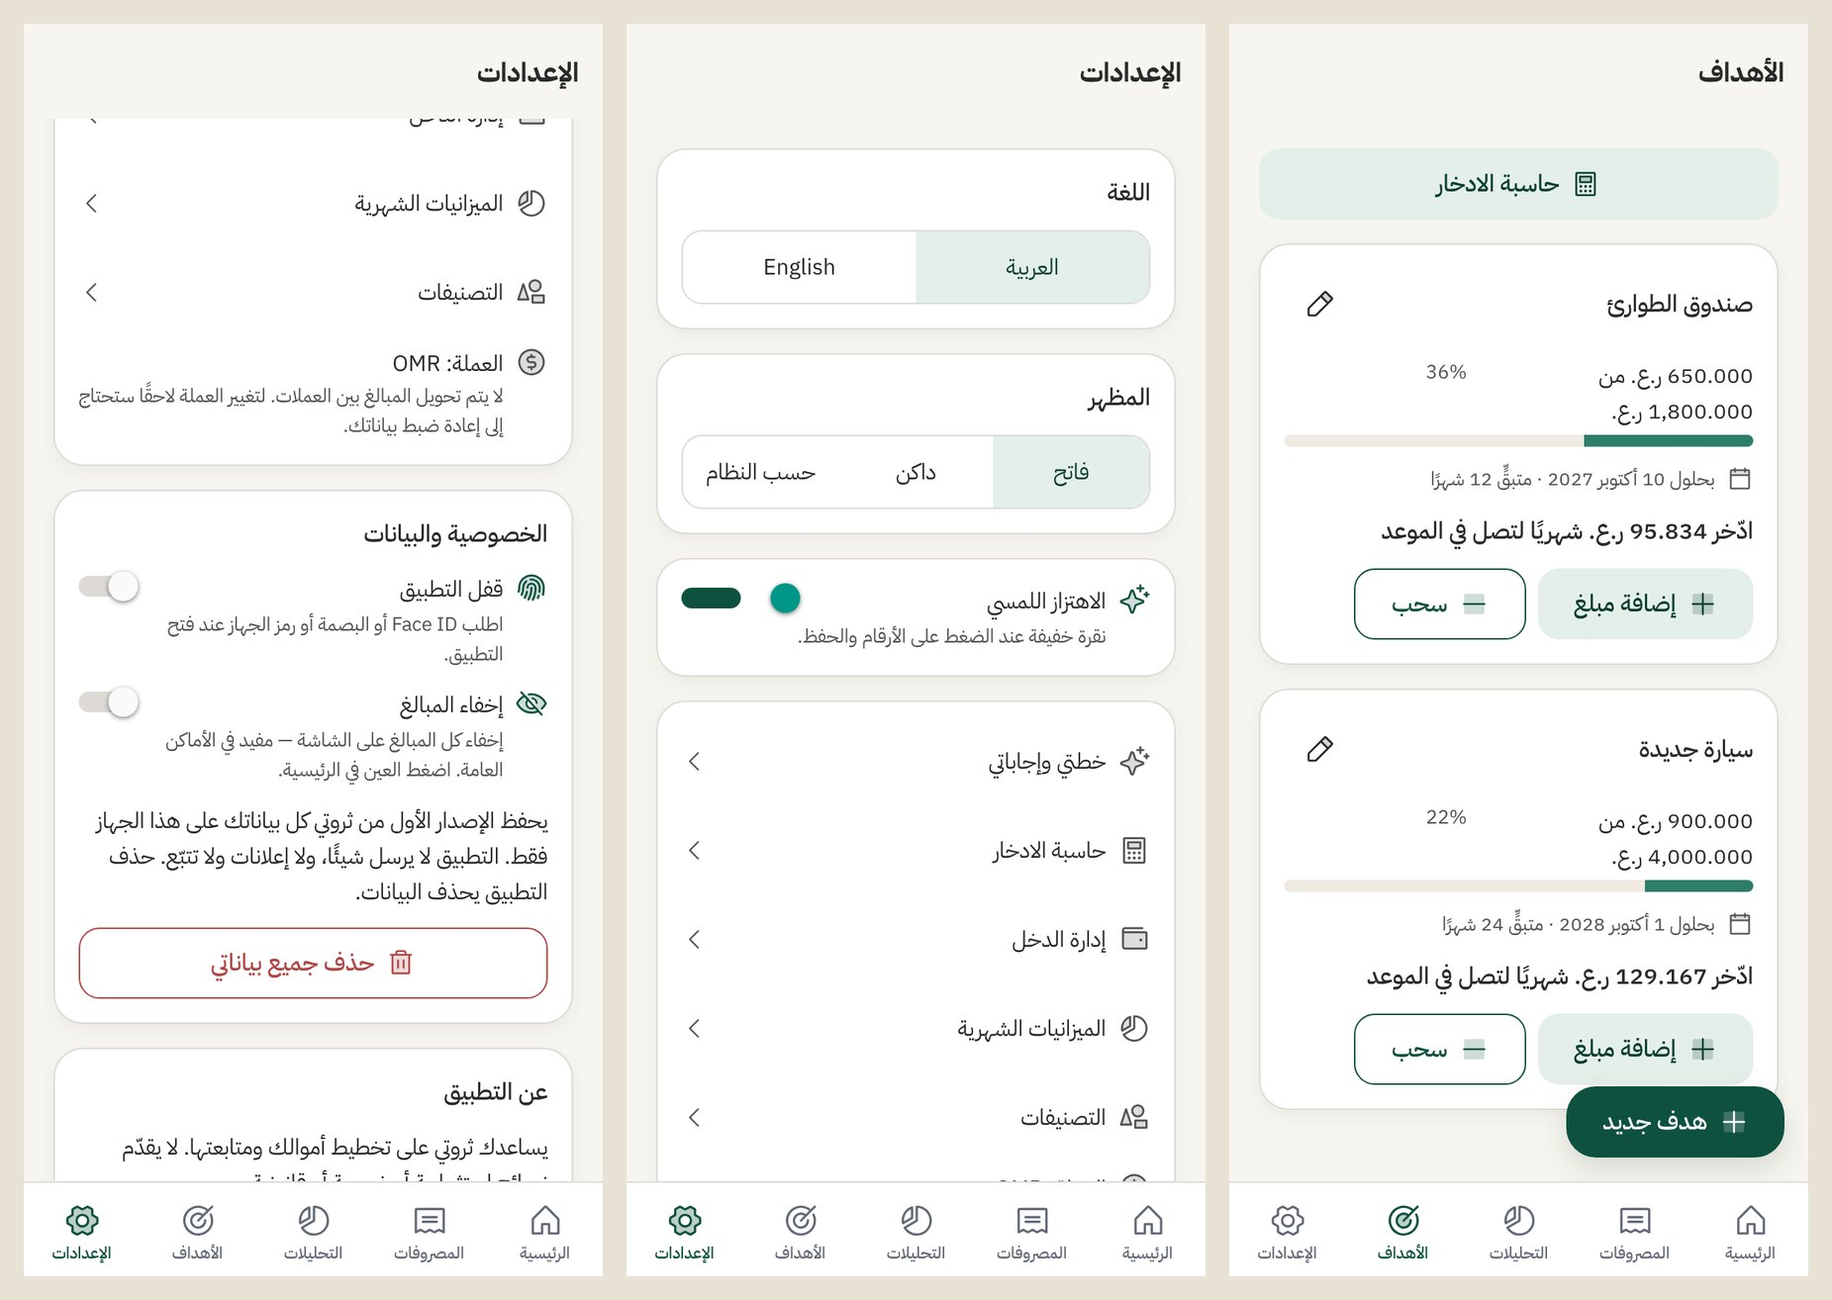
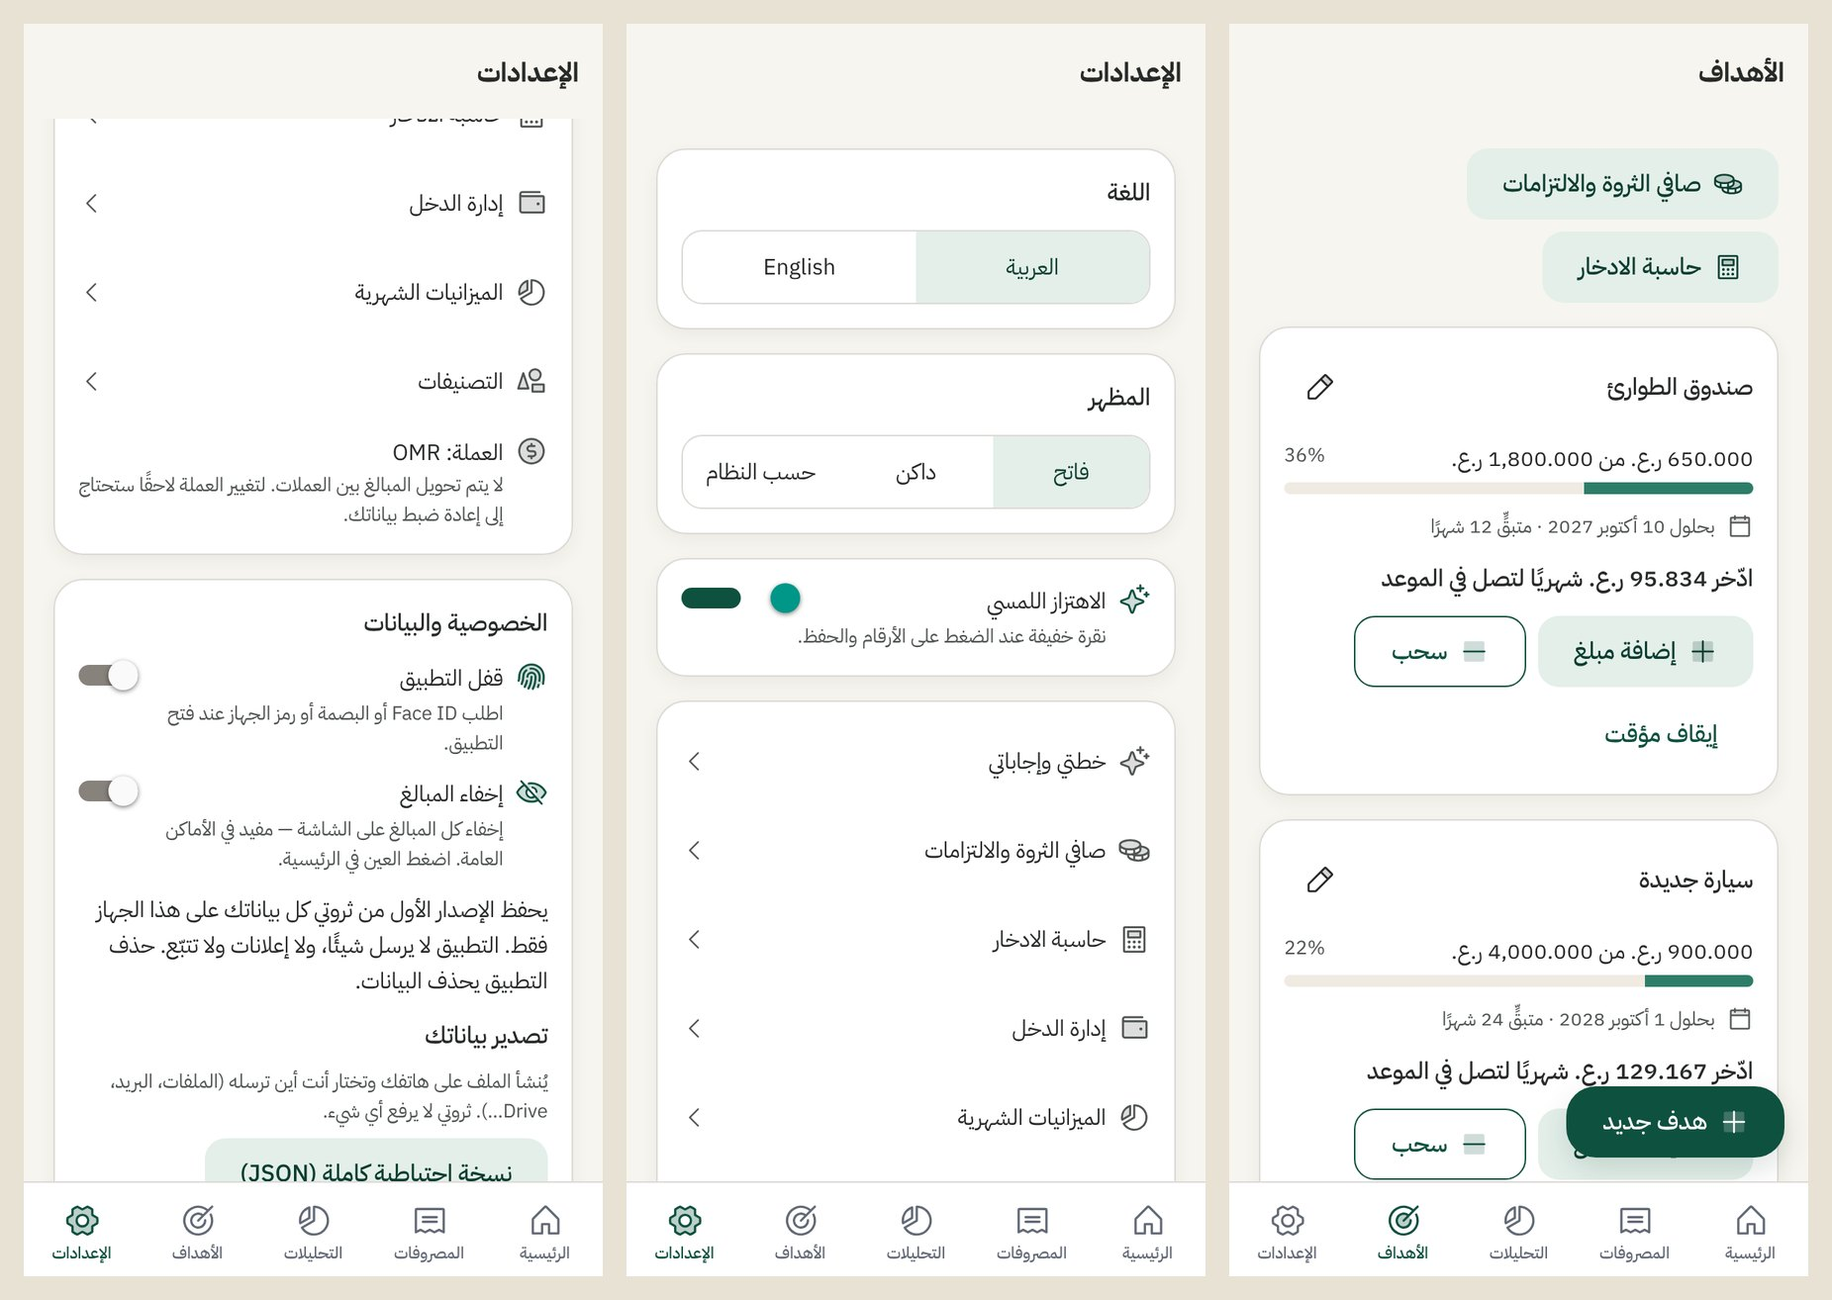
Design & colour polish across screens; iPhone build profile for Face ID
- Category colours regenerated as one brand family (OKLCH L .50 / C .12,
  30° hue steps, housing on the emerald hue; dark mode L .79): no more
  royal blue / purple / orange chart-library look. Text >= 4.76:1 and
  ΔE >= 0.051, enforced by tests.
- Percentages wrapped in LRM («57%», not «%57»), incl. debt rates.
- Progress rows: long values (budget "x of y", goal amounts) move to
  their own line instead of breaking amounts mid-way.
- Budget bars: golden amber near the limit, brand red over it
  (non-text, >= 3:1, tested) instead of muddy brown / text red.
- One branded Toggle replaces every Switch.
- eas.json: preview profile builds for real iPhones (ad-hoc); README
  section with device registration + build commands (requires a paid
  Apple Developer membership — owner decision, nothing enabled).
- Decision D-036; screenshots refreshed; 306 tests passing.

Claude-Session: https://claude.ai/code/session_01Riwkz4h1jZvr9WJWLAUoMn

diff --git a/expo-app/src/ui/theme.ts b/expo-app/src/ui/theme.ts
@@ -68,6 +68,9 @@ export interface Palette {
   brandGold: string;
   /** Progress bars and rings (non-text, >= 3:1). */
   progress: string;
+  /** Budget bar near its limit / over it (non-text, >= 3:1). */
+  cautionBar: string;
+  dangerBar: string;
 
   // Text
   onSurface: string;
@@ -128,6 +131,8 @@ export const light: Palette = {
   heroAccent: '#D6B35F', // brand gold, a hair lighter for 4.6:1 text on the hero
   brandGold: '#D4AF57',
   progress: '#2E7D68', // brand mid green
+  cautionBar: '#A86F12', // golden amber, 3.6:1 on the track
+  dangerBar: '#C94F4F', // brand red (non-text use, 3.7:1)
 
   onSurface: S.ink[900],
   onSurfaceMuted: S.ink[700],
@@ -161,18 +166,20 @@ export const light: Palette = {
   expense: S.ink[900],
 
   categories: {
-    housing: { fg: '#345197', bg: '#EAF0FE' },
-    food: { fg: '#3E6C1D', bg: '#E8F5E1' },
-    transport: { fg: '#066D90', bg: '#DFF4FF' },
-    utilities: { fg: '#7E5E01', bg: '#F9EFDA' },
-    telecom: { fg: '#584995', bg: '#EFEEFE' },
-    health: { fg: '#983F4A', bg: '#FFEBEB' },
-    education: { fg: '#0E4786', bg: '#E7F1FE' },
-    family: { fg: '#8A3A64', bg: '#FFE9F3' },
-    shopping: { fg: '#6F397B', bg: '#FAEAFD' },
-    entertainment: { fg: '#A04F27', bg: '#FFECE3' },
-    debt: { fg: '#742E2B', bg: '#FFEBE9' },
-    other: { fg: '#666457', bg: '#F1F0EA' },
+    // One family (OKLCH L 0.50, C 0.12, hues 30° apart; housing on the brand emerald hue), so charts
+    // read as Tharwati rather than a generic chart library. Text >= 4.76:1, ΔE >= 0.051.
+    housing: { fg: '#007852', bg: '#E2F6EC' },
+    food: { fg: '#8A5700', bg: '#FAEEDE' },
+    transport: { fg: '#007096', bg: '#DFF4FD' },
+    utilities: { fg: '#994920', bg: '#FFEBE3' },
+    telecom: { fg: '#2E64A6', bg: '#E5F1FF' },
+    health: { fg: '#9B424D', bg: '#FFEAEB' },
+    education: { fg: '#007778', bg: '#DEF6F5' },
+    family: { fg: '#914373', bg: '#FDEAF4' },
+    shopping: { fg: '#7D4B92', bg: '#F7EBFC' },
+    entertainment: { fg: '#5D57A4', bg: '#EEEEFF' },
+    debt: { fg: '#6E6600', bg: '#F2F1DE' },
+    other: { fg: '#65635E', bg: '#F2F0EC' },
   },
 };
 
@@ -187,6 +194,8 @@ export const dark: Palette = {
   heroAccent: S.gold[300],
   brandGold: '#D4AF57',
   progress: S.emerald[300],
+  cautionBar: S.amber[300],
+  dangerBar: S.ruby[300],
 
   onSurface: S.ink[50],
   onSurfaceMuted: S.ink[300],
@@ -220,18 +229,18 @@ export const dark: Palette = {
   expense: S.ink[50],
 
   categories: {
-    housing: { fg: '#9EBDFF', bg: '#202B42' },
-    food: { fg: '#AFDA97', bg: '#213019' },
-    transport: { fg: '#A6E1FE', bg: '#0F2F3D' },
-    utilities: { fg: '#CEAC64', bg: '#36290E' },
-    telecom: { fg: '#A497EA', bg: '#2B2740' },
-    health: { fg: '#E5848C', bg: '#3F2224' },
-    education: { fg: '#6FA7EE', bg: '#1C2C41' },
-    family: { fg: '#F89DC9', bg: '#3C222E' },
-    shopping: { fg: '#D398E0', bg: '#352439' },
-    entertainment: { fg: '#FEA47C', bg: '#3E2418' },
-    debt: { fg: '#FEC8C3', bg: '#3F2220' },
-    other: { fg: '#CCCBC0', bg: '#2C2B27' },
+    housing: { fg: '#74D0AA', bg: '#183026' },
+    food: { fg: '#E2B16B', bg: '#342816' },
+    transport: { fg: '#67C9ED', bg: '#152E37' },
+    utilities: { fg: '#F3A582', bg: '#39251B' },
+    telecom: { fg: '#8CBEFD', bg: '#1E2B3B' },
+    health: { fg: '#F69EA5', bg: '#3A2324' },
+    education: { fg: '#5BD0CF', bg: '#12302F' },
+    family: { fg: '#EB9FCA', bg: '#37232E' },
+    shopping: { fg: '#D4A6E9', bg: '#312536' },
+    entertainment: { fg: '#B3B1FC', bg: '#28283B' },
+    debt: { fg: '#C4BF6C', bg: '#2D2B16' },
+    other: { fg: '#BCBAB5', bg: '#2B2A27' },
   },
 };
 

diff --git a/expo-app/src/ui/components.tsx b/expo-app/src/ui/components.tsx
@@ -6,6 +6,7 @@ import {
   Platform,
   Pressable,
   ScrollView,
+  Switch,
   StyleProp,
   StyleSheet,
   Text,
@@ -343,21 +344,23 @@ export function LabeledProgress({ value, label, trailing, budget = false }: { va
   const { p } = useUi();
   const over = budget && value > 1;
   const near = budget && !over && value >= 0.8;
-  const color = over ? p.negative : near ? p.warning : p.progress;
+  const color = over ? p.dangerBar : near ? p.cautionBar : p.progress;
+  // Long trailing text (e.g. "350.000 ر.ع. من 360.000 ر.ع.") goes on its own line so amounts never break mid-way.
+  const stacked = (trailing?.length ?? 0) > 16;
+  const trailingText = trailing ? (
+    <T variant="small" color={over ? p.negative : p.onSurfaceMuted}>
+      {trailing}
+    </T>
+  ) : null;
   return (
     <View accessible accessibilityLabel={[label, trailing].filter(Boolean).join('، ')} style={{ gap: Space.xs }}>
       <Row style={{ alignItems: 'flex-start' }}>
         {over && <Icon name="warning" size={18} color={p.negative} />}
-        <View style={{ flex: 3 }}>
+        <View style={{ flex: 1 }}>
           <T>{label}</T>
+          {stacked && trailingText}
         </View>
-        {trailing ? (
-          <View style={{ flex: 2 }}>
-            <T variant="small" color={over ? p.negative : p.onSurfaceMuted} style={{ textAlign: 'auto' }}>
-              {trailing}
-            </T>
-          </View>
-        ) : null}
+        {!stacked && trailingText && <View style={{ flexShrink: 0 }}>{trailingText}</View>}
       </Row>
       <View style={{ height: 8, borderRadius: Radii.pill, backgroundColor: p.surfaceMuted, overflow: 'hidden' }}>
         <View style={{ height: 8, width: `${Math.round(Math.min(1, Math.max(0, value)) * 100)}%`, backgroundColor: color }} />
@@ -467,5 +470,21 @@ export function CategoryBadge({ category, size = 40 }: { category: Category | un
     >
       <Icon name={category ? categoryIcon(category) : 'catOther'} size={Math.round(size * 0.55)} color={tone.fg} />
     </View>
+  );
+}
+
+/** Brand switch: emerald when on, clear track when off, white thumb on Android (iOS draws its own). */
+export function Toggle({ value, onValueChange, testID, accessibilityLabel }: { value: boolean; onValueChange: (v: boolean) => void; testID?: string; accessibilityLabel?: string }) {
+  const { p } = useUi();
+  return (
+    <Switch
+      testID={testID}
+      accessibilityLabel={accessibilityLabel}
+      value={value}
+      onValueChange={onValueChange}
+      trackColor={{ true: p.primary, false: p.borderStrong }}
+      ios_backgroundColor={p.borderStrong}
+      thumbColor={Platform.OS === 'android' ? '#FFFFFF' : undefined}
+    />
   );
 }

diff --git a/expo-app/src/app/onboarding.tsx b/expo-app/src/app/onboarding.tsx
@@ -1,5 +1,5 @@
 import { useState } from 'react';
-import { Pressable, Switch, View } from 'react-native';
+import { Pressable, View } from 'react-native';
 import { SafeAreaView } from 'react-native-safe-area-context';
 
 import { parseAmount } from '../core/amountParser';
@@ -7,7 +7,7 @@ import { Currency, CURRENCIES, DEFAULT_CURRENCY } from '../core/currency';
 import { addMonths, daysInMonth, monthOf } from '../core/dates';
 import { DEFAULT_PROFILE, Profile, suggestPlan } from '../domain/profile';
 import { useAppState, useController, useUi } from '../ui/AppContext';
-import { Button, Card, Field, Icon, IconName, Row, runGuarded, Screen, T } from '../ui/components';
+import { Toggle, Button, Card, Field, Icon, IconName, Row, runGuarded, Screen, T } from '../ui/components';
 import { Quiz } from '../ui/Quiz';
 import { amountErrorText, currencyName, currencySymbol, formatMoney } from '../ui/format';
 import { MIN_TAP, Radii, Space } from '../ui/theme';
@@ -231,7 +231,7 @@ function PlanReview({ profile, currency, incomeMinor }: { profile: Profile | nul
                     <T>{plan.goal.kind === 'emergency' ? s.planGoalEmergency(fmt(plan.goal.targetMinor)) : s.planGoalPurchase(fmt(plan.goal.targetMinor))}</T>
                   </View>
                 </Row>
-                <Switch testID="plan.goal.toggle" value={useGoal} onValueChange={setUseGoal} trackColor={{ true: p.primary, false: p.outline }} accessibilityLabel={s.goalsTitle} />
+                <Toggle testID="plan.goal.toggle" value={useGoal} onValueChange={setUseGoal} accessibilityLabel={s.goalsTitle} />
               </Row>
             )}
             {plan.focusBudget && (
@@ -242,7 +242,7 @@ function PlanReview({ profile, currency, incomeMinor }: { profile: Profile | nul
                     <T>{s.planBudget(s.cat[plan.focusBudget.category], fmt(plan.focusBudget.limitMinor))}</T>
                   </View>
                 </Row>
-                <Switch testID="plan.budget.toggle" value={useBudget} onValueChange={setUseBudget} trackColor={{ true: p.primary, false: p.outline }} accessibilityLabel={s.budgetsTitle} />
+                <Toggle testID="plan.budget.toggle" value={useBudget} onValueChange={setUseBudget} accessibilityLabel={s.budgetsTitle} />
               </Row>
             )}
           </Card>

diff --git a/expo-app/src/app/wealth.tsx b/expo-app/src/app/wealth.tsx
@@ -1,6 +1,6 @@
 import { router } from 'expo-router';
 import { useState } from 'react';
-import { Pressable, Switch, View } from 'react-native';
+import { Pressable, View } from 'react-native';
 
 import { addMonths, monthOf } from '../core/dates';
 import { minorPerMajor } from '../core/currency';
@@ -8,7 +8,7 @@ import type { Debt } from '../domain/models';
 import { payoffPlan, suggestedExtra } from '../domain/wealth';
 import { wealth } from '../state/selectors';
 import { useAppState, useController, useUi } from '../ui/AppContext';
-import { AnimatedAmount, Button, Card, Icon, IconButton, LabeledProgress, Row, runGuarded, Screen, T } from '../ui/components';
+import { Toggle, AnimatedAmount, Button, Card, Icon, IconButton, LabeledProgress, Row, runGuarded, Screen, T } from '../ui/components';
 import { haptic } from '../ui/feedback';
 import { formatDate, formatMonth } from '../ui/format';
 import { AmountEditor } from '../ui/InlineEditor';
@@ -172,7 +172,7 @@ function DebtItem({ debt }: { debt: Debt }) {
               <View style={{ flex: 1 }}>
                 <T variant="small">{s.alsoExpense}</T>
               </View>
-              <Switch testID={`debt.alsoExpense.${debt.id}`} value={alsoExpense} onValueChange={setAlsoExpense} trackColor={{ true: p.primary, false: p.outline }} accessibilityLabel={s.alsoExpense} />
+              <Toggle testID={`debt.alsoExpense.${debt.id}`} value={alsoExpense} onValueChange={setAlsoExpense} accessibilityLabel={s.alsoExpense} />
             </Row>
             <AmountEditor
               testID="payment"

diff --git a/expo-app/src/app/asset/[id].tsx b/expo-app/src/app/asset/[id].tsx
@@ -1,11 +1,11 @@
 import { router, Stack, useLocalSearchParams } from 'expo-router';
 import { useState } from 'react';
-import { Pressable, Switch, View } from 'react-native';
+import { Pressable, View } from 'react-native';
 
 import { minorToEditable, parseAmount } from '../../core/amountParser';
 import { ASSET_KINDS, AssetKind } from '../../domain/models';
 import { useAppState, useController, useUi } from '../../ui/AppContext';
-import { Button, confirm, Field, Row, runGuarded, Screen, T } from '../../ui/components';
+import { Toggle, Button, confirm, Field, Row, runGuarded, Screen, T } from '../../ui/components';
 import { amountErrorText, currencySymbol } from '../../ui/format';
 import { Radii, Space } from '../../ui/theme';
 
@@ -82,7 +82,7 @@ export default function AssetForm() {
           <View style={{ flex: 1 }}>
             <T>{s.assetIsEstimate}</T>
           </View>
-          <Switch testID="asset.estimate" value={estimate} onValueChange={setEstimate} trackColor={{ true: p.primary, false: p.outline }} accessibilityLabel={s.assetIsEstimate} />
+          <Toggle testID="asset.estimate" value={estimate} onValueChange={setEstimate} accessibilityLabel={s.assetIsEstimate} />
         </Row>
         <Button label={s.save} onPress={save} disabled={busy} testID="asset.save" />
         {existing && <Button kind="danger" icon="delete" label={s.delete} onPress={remove} disabled={busy} testID="asset.delete" />}

diff --git a/expo-app/src/app/(tabs)/settings.tsx b/expo-app/src/app/(tabs)/settings.tsx
@@ -1,10 +1,10 @@
 import Constants from 'expo-constants';
 import { router } from 'expo-router';
-import { Alert, Pressable, Switch, View } from 'react-native';
+import { Alert, Pressable, View } from 'react-native';
 
 import type { Locale, ThemeMode } from '../../state/appController';
 import { useAppState, useController, useUi } from '../../ui/AppContext';
-import { Button, Card, confirm, Icon, IconName, Row, runGuarded, Screen, T } from '../../ui/components';
+import { Toggle, Button, Card, confirm, Icon, IconName, Row, runGuarded, Screen, T } from '../../ui/components';
 import { shareExpensesCsv, shareJsonBackup } from '../../ui/exportData';
 import { haptic } from '../../ui/feedback';
 import { categoryLabel } from '../../ui/format';
@@ -192,7 +192,7 @@ function ToggleRow({ icon, label, hint, value, onChange, testID }: { icon: IconN
           {hint}
         </T>
       </View>
-      <Switch testID={testID} value={value} onValueChange={onChange} trackColor={{ true: p.primary, false: p.outline }} accessibilityLabel={label} />
+      <Toggle testID={testID} value={value} onValueChange={onChange} accessibilityLabel={label} />
     </Row>
   );
 }

diff --git a/expo-app/src/ui/format.ts b/expo-app/src/ui/format.ts
@@ -64,10 +64,13 @@ export function formatMoney(minor: number, c: Currency, l: Locale, signed = fals
   return l === 'ar' ? `${LRM}${sign}${body}${LRM}${NBSP}${currencySymbol(c, l)}` : `${c.code}${NBSP}${sign}${body}`;
 }
 
-/** Whole percent, toward zero, so an unfinished goal never reads "100%". */
+/**
+ * Whole percent, toward zero, so an unfinished goal never reads "100%".
+ * Wrapped in LRM marks so «57%» never displays as «%57» inside Arabic text.
+ */
 export function formatPercent(fraction: number): string {
   const p = fraction * 100;
-  return `${p >= 0 ? Math.floor(p) : Math.ceil(p)}%`;
+  return `${LRM}${p >= 0 ? Math.floor(p) : Math.ceil(p)}%${LRM}`;
 }
 
 const MONTHS: Record<Locale, string[]> = {

diff --git a/expo-app/__tests__/ui.test.tsx b/expo-app/__tests__/ui.test.tsx
@@ -449,7 +449,7 @@ test('guidance: rising category → set a limit (prefilled), emergency fund → 
   app();
   await screen.findByTestId('dashboard');
   const rising = `guidance.categoryRising:${ent}`;
-  expect((await screen.findByTestId(`${rising}.title`)).props.children).toBe(ar.gRisingTitle(ar.cat.entertainment, '200%'));
+  expect((await screen.findByTestId(`${rising}.title`)).props.children).toBe(ar.gRisingTitle(ar.cat.entertainment, '\u200E200%\u200E'));
   // Why: the user's own numbers, same days compared, suggested limit = last month's total rounded up.
   press(`${rising}.why`);
   expect(screen.getByTestId(`${rising}.reason`).props.children).toBe(

diff --git a/expo-app/src/ui/i18n.ts b/expo-app/src/ui/i18n.ts
@@ -756,7 +756,7 @@ const ar: Strings = {
   debtRemaining: (remaining, original) => `المتبقي ${remaining} من ${original}`,
   debtMonthly: (amount) => `${amount} شهريًا`,
   debtDue: (day) => `يستحق يوم ${day}`,
-  debtRate: (rate) => `فائدة سنوية ${rate}%`,
+  debtRate: (rate) => `فائدة سنوية \u200E${rate}%\u200E`,
   debtNoRate: 'بلا فائدة مسجلة',
   debtPaidOff: 'تم السداد',
   payoffBase: (months, when, interest) => `بهذا القسط: ينتهي السداد خلال ${months} (نحو ${when})، بفائدة إجمالية تقريبية ${endSentence(interest)}`,

diff --git a/expo-app/__tests__/designSystem.test.ts b/expo-app/__tests__/designSystem.test.ts
@@ -76,6 +76,8 @@ for (const [name, p] of [
       ['brand gold on the deep-green hero', p.brandGold, p.hero],
       ['progress bar on its track', p.progress, p.surfaceMuted],
       ['progress bar on surface', p.progress, p.surface],
+      ['near-limit bar on its track', p.cautionBar, p.surfaceMuted],
+      ['over-limit bar on its track', p.dangerBar, p.surfaceMuted],
     ])(`UI boundary: %s >= 3:1`, (_label, fg, bg) => {
       expect(contrast(fg, bg)).toBeGreaterThanOrEqual(AA_UI);
     });

diff --git a/DECISIONS.md b/DECISIONS.md
@@ -218,3 +218,12 @@ injection guard, plain decimal amounts). Files are written to the app cache and 
 sheet — the user chooses the destination; Tharwati uploads nothing. The screen states that restore is not
 available yet. Uses expo-file-system and expo-sharing (both in Expo Go).
 
+### D-036 Design & colour polish: brand-family category colours, LRM percents, stacked amounts — 2026-10-10
+Review of every screen found: saturated "chart-library" category colours (royal blue, purple, orange) clashing
+with the emerald/gold identity; «%57» instead of «57%» in Arabic; amounts split across lines in progress rows;
+a muddy-brown near-limit bar; default system switches. **Decision:** categories are regenerated as one family
+(OKLCH L 0.50 / C 0.12, hues 30° apart, housing on the brand emerald hue; dark mode L 0.79) — text ≥ 4.76:1,
+ΔE ≥ 0.051, tested; percentages are wrapped in LRM like amounts; long progress-row values move to their own
+line; near/over-limit bars use golden amber #A86F12 and brand red #C94F4F (non-text, ≥ 3:1, tested); one
+branded `Toggle` replaces every Switch.
+

diff --git a/docs/DESIGN_SYSTEM.md b/docs/DESIGN_SYSTEM.md
@@ -39,6 +39,10 @@
 | خطر/خطأ (نص) | `#B14646` (من `#C94F4F`) | 5.0:1 — الأصل 4.09:1 |
 | ذهبي نصي على البطاقة الخضراء | `#D6B35F` | 4.6:1 |
 
+**ألوان التصنيفات (D-036):** عائلة واحدة متناسقة مع الهوية — نفس الإضاءة والتشبع، وتدرّج الألوان بفارق 30°، والسكن على درجة الزمرّدي. لا ألوان «مكتبة رسوم» مشبعة.
+**أشرطة الميزانية:** قريب من الحد = كهرماني ذهبي `#A86F12`، متجاوز = الأحمر `#C94F4F` (عناصر غير نصية).
+**النسب المئوية:** تُلف بعلامة LRM فتظهر «57%» لا «%57».
+
 **قاعدة المبالغ:** بين الرقم ورمز العملة مسافة غير قابلة للكسر — لا ينفصل «ر.ع.» عن مبلغه في سطر جديد أبدًا.
 
 ## 3. الرموز الدلالية (Semantic tokens) — المظهر الفاتح
